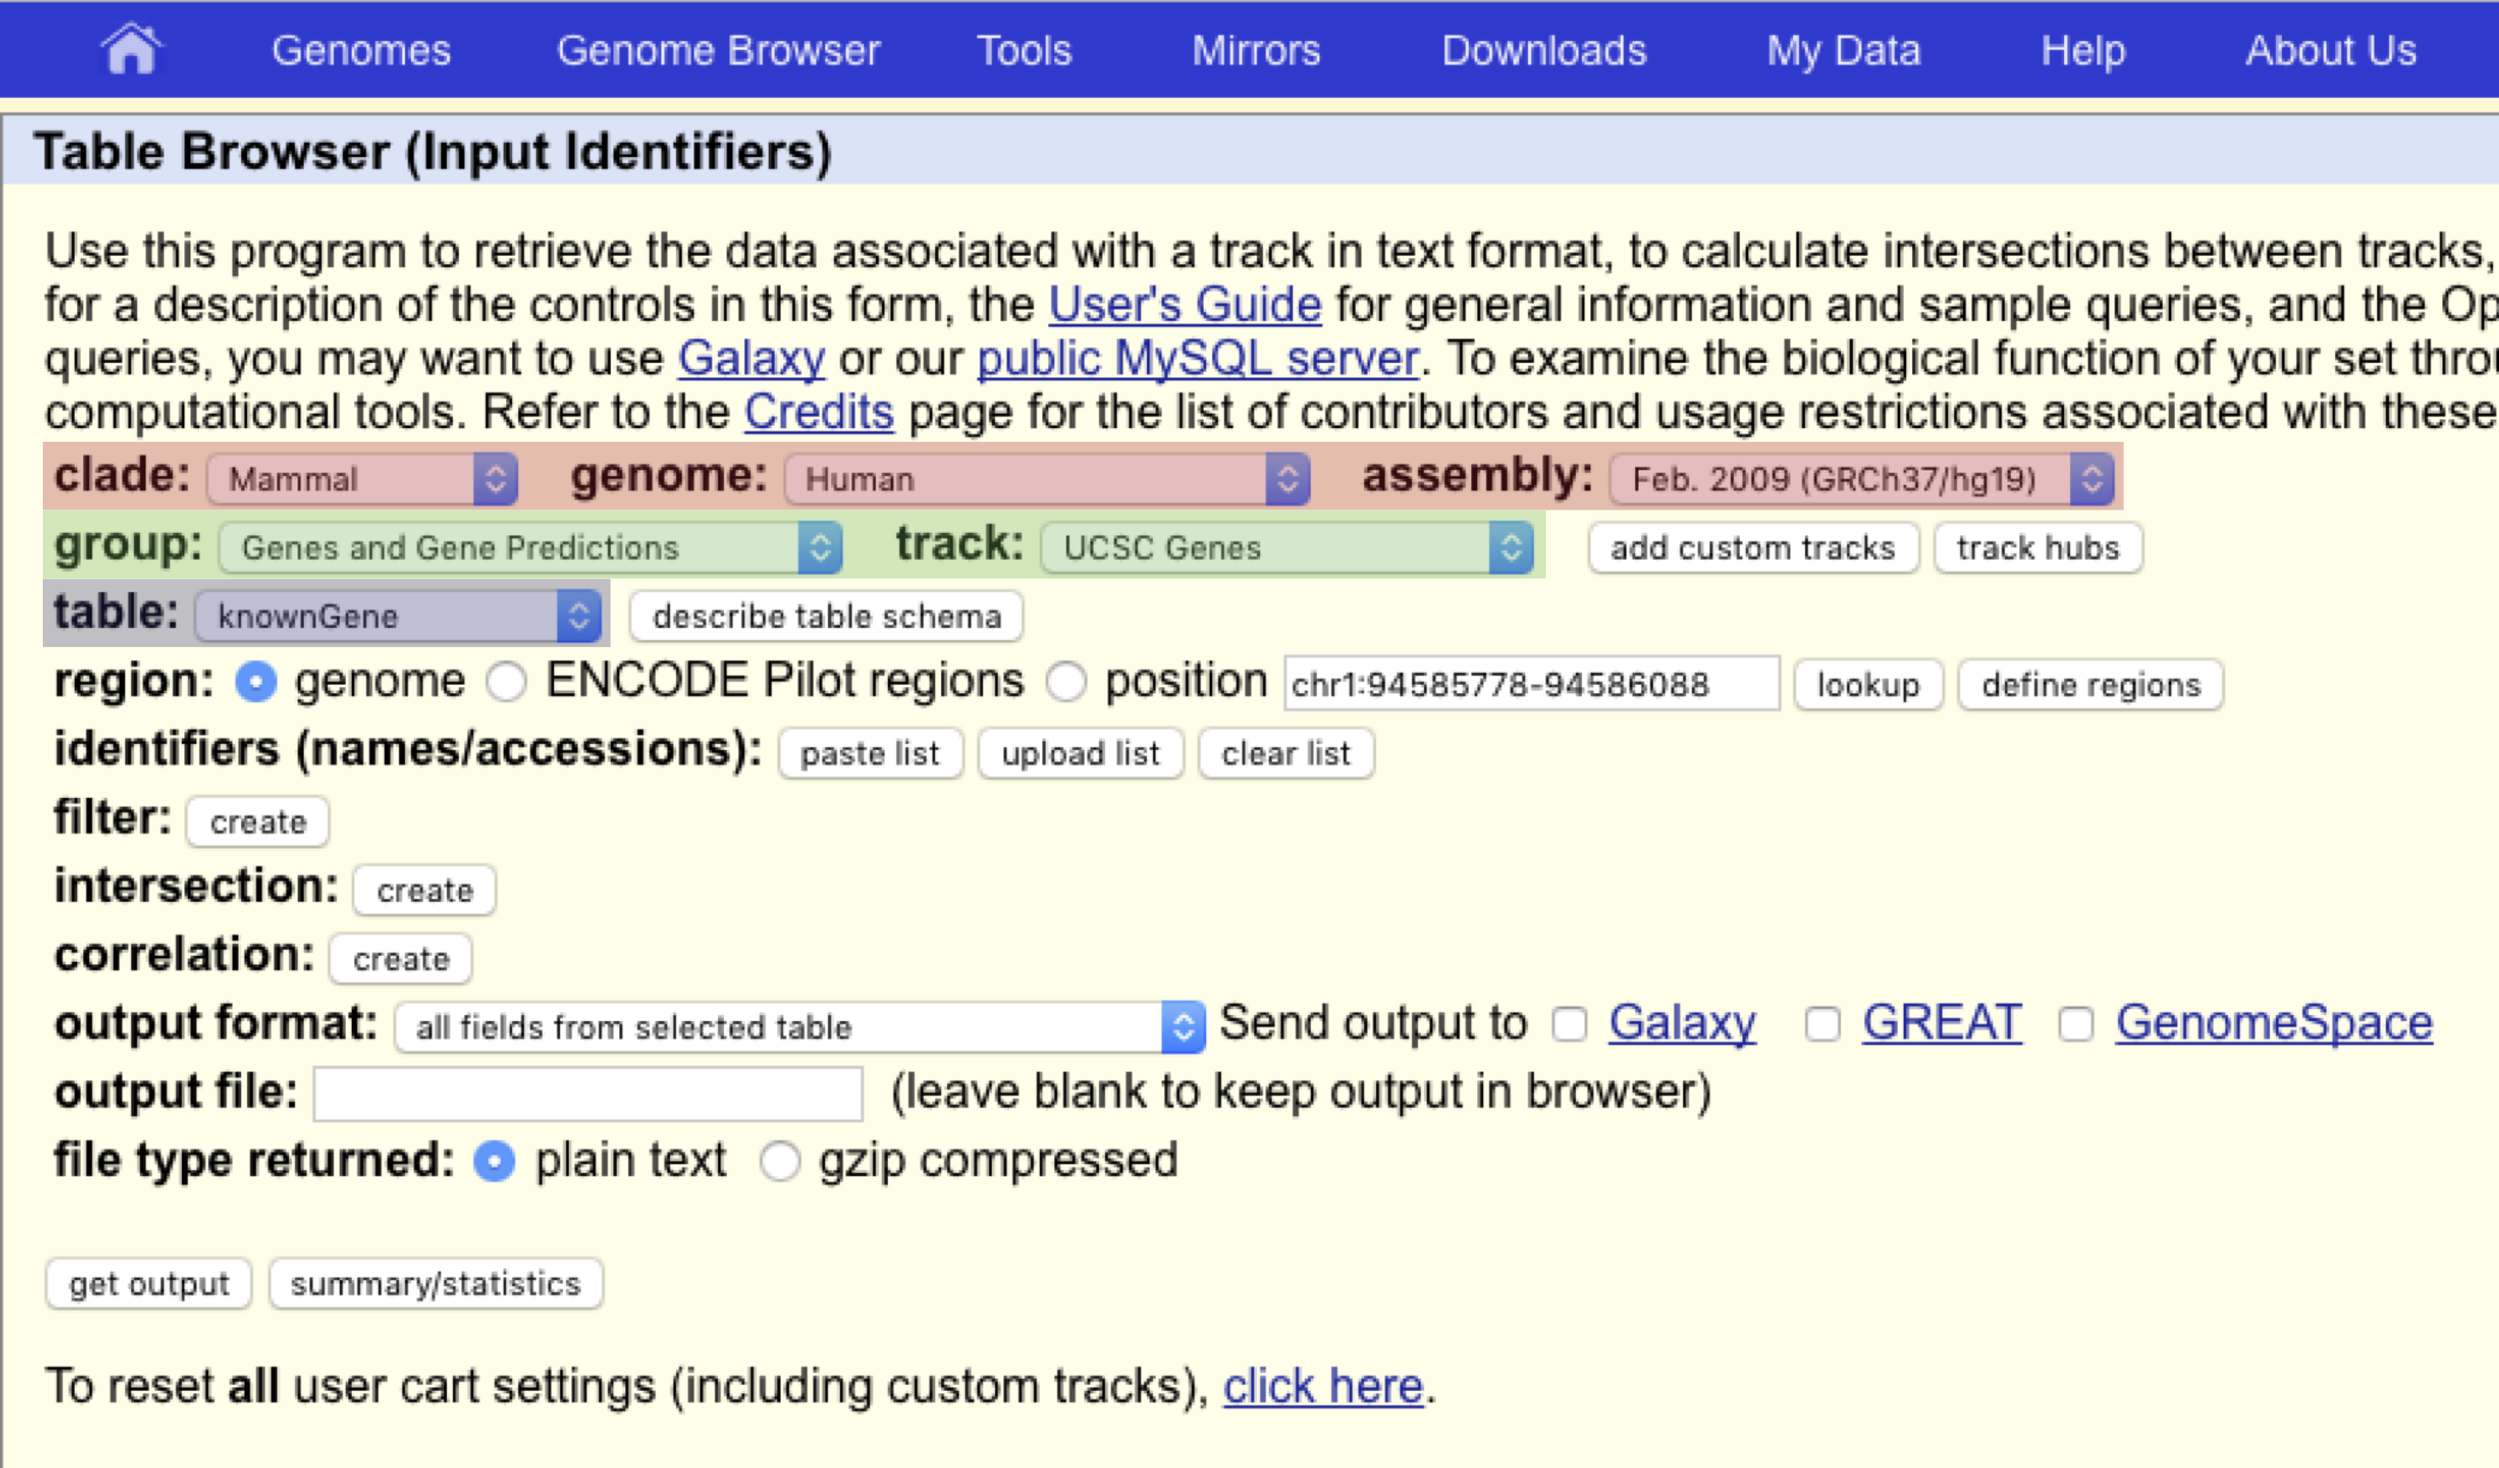
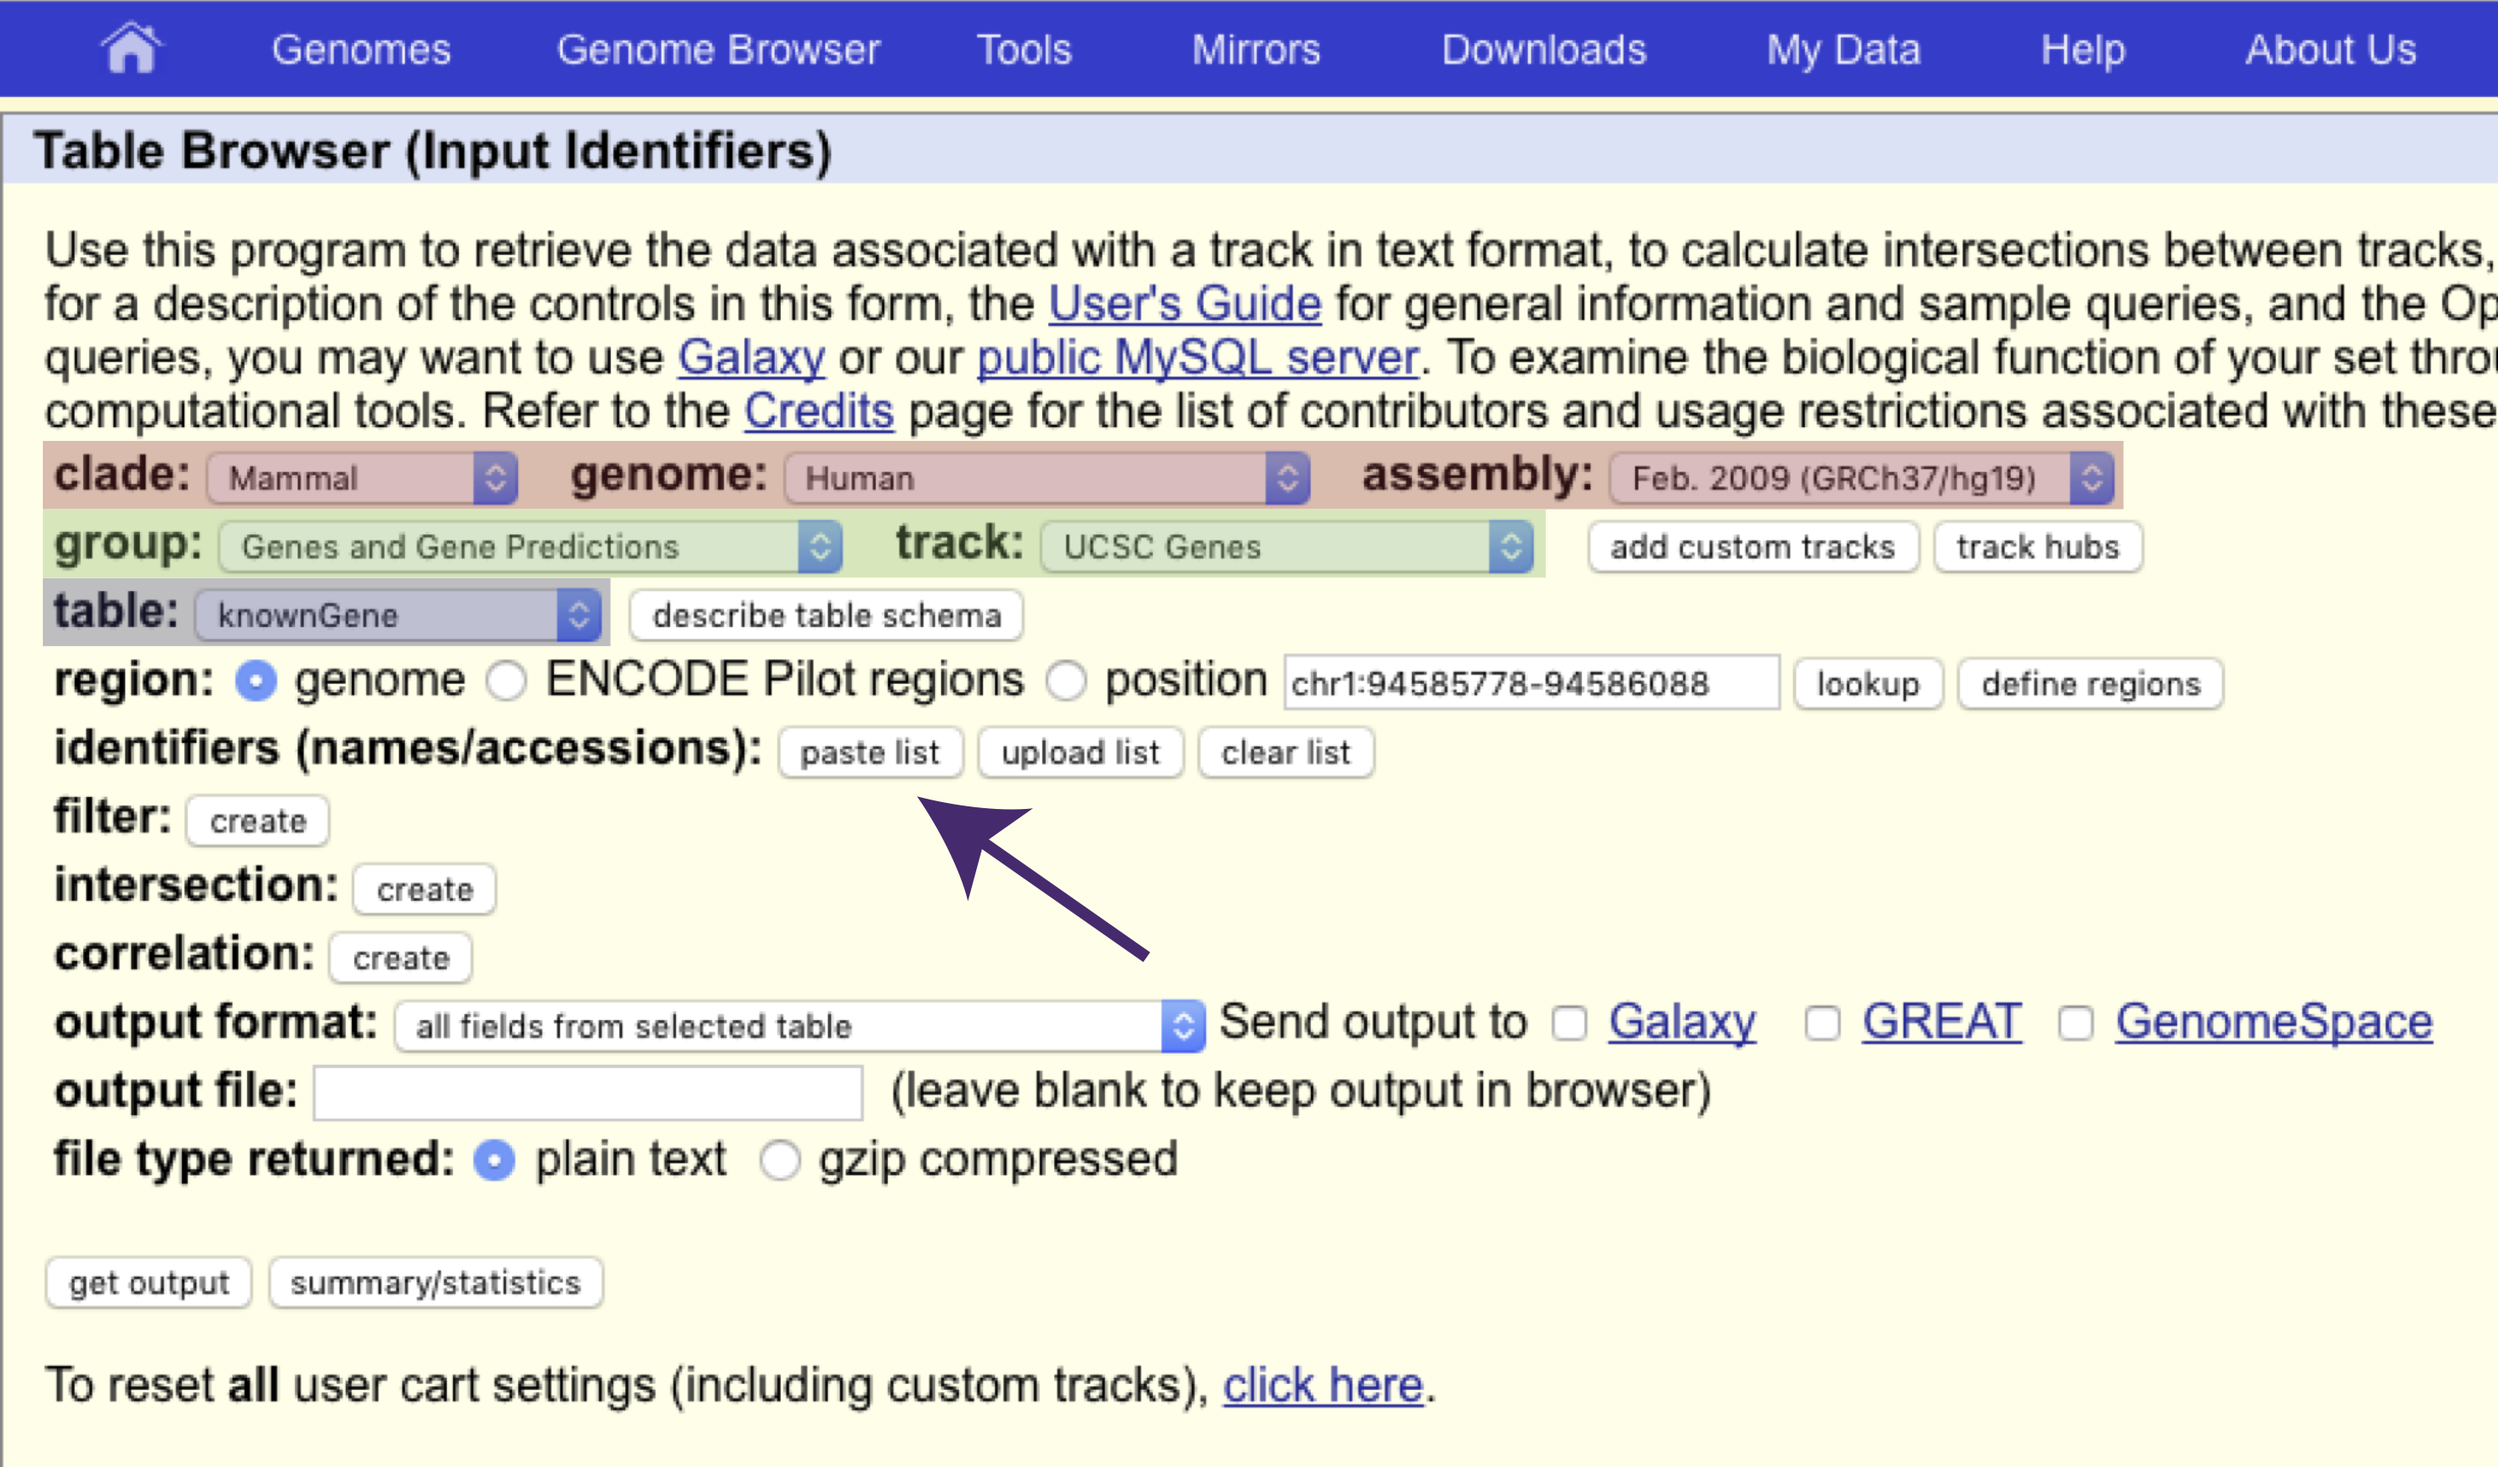
fixed UCSC genome browser section

diff --git a/_posts/0001-04-01-GenomeBrowsingLab.md b/_posts/0001-04-01-GenomeBrowsingLab.md
@@ -38,7 +38,9 @@ As is exhibited below we can now see the full list of ensembl transcipts of PIK3
 
 {% include figure.html image="/assets/UCSC/ensemblTranscripts.png" width="1150" %}
 
-{% include question.html question="Turn on the GTEx track, which tissue has the highest expression of PIK3CA? hint: try clicking on the track in the genome browser once it's enabled" answer='Cells - EBV-transformed lymphocytes have the highest expression at 11.3 RPKM.'%}
+Turn on the GTEx track, which tissue has the highest expression of PIK3CA?
+{% include question.html question="Get a hint!" answer='Try clicking on the track in the genome browser once it\'s enabled'%}
+{% include question.html question="Answer" answer='Cells - EBV-transformed lymphocytes have the highest expression at 11.3 RPKM.'%}
 
 ### BLAST-like alignment tool
 
@@ -50,20 +52,27 @@ BLAT will search the genome and output a table of possible matches between the g
 
 {% include figure.html image="/assets/UCSC/blatResults.png" width="750" %}
 
-{% include question.html question="Which gene do these primers attempt to amplify?" answer='ABCA4'%}
+Which gene do these primers attempt to amplify?
+
+{% include question.html question="Answer" answer='ABCA4'%}
 
 ### UCSC Table Browser
-[BLAT](https://genome.ucsc.edu/cgi-bin/hgBlat?command=start) allowed us to get a region based on a sequence, but what if we want to do the reverse of that, to get a sequence based on a region. Fortunately the [UCSC genome browser](https://genome.ucsc.edu/cgi-bin/hgGateway) has a tool for that as well called the [UCSC Table Browser](https://genome.ucsc.edu/cgi-bin/hgTables). Let's get the DNA sequence for the gene APC using this tool. First navigate to the [UCSC Table Browser](https://genome.ucsc.edu/cgi-bin/hgTables) and input the gene APC. There are alot of options here but we only need to concern ourselves with a few. First make sure that the proper assembly is specified, in our case this should be hg19 (red boxes). Next because we want to return the sequence of the APC gene "Genes and Gene Precitions" should be selected under group, and let's go ahead and look for this gene in the "UCSC Genes" track (green boxes). Further the table should be set to "knownGene" (blue box).
+[BLAT](https://genome.ucsc.edu/cgi-bin/hgBlat?command=start) allowed us to get a region based on a sequence, but what if we want to do the reverse of that, to get a sequence based on a region. Fortunately the [UCSC genome browser](https://genome.ucsc.edu/cgi-bin/hgGateway) has a tool for that as well called the [UCSC Table Browser](https://genome.ucsc.edu/cgi-bin/hgTables). Let's get the DNA sequence for the gene *PRLR* using this tool. First navigate to the [UCSC Table Browser](https://genome.ucsc.edu/cgi-bin/hgTables), there are alot of options here but we only need to concern ourselves with a few. First make sure that the proper assembly is specified, in our case this should be hg19 (red boxes). Next because we want to return the sequence of the *PRLR* gene "Genes and Gene Precitions" should be selected under group, and let's go ahead and look for this gene in the "UCSC Genes" track (green boxes). Further the table should be set to "knownGene" (blue box).
 
 {% include figure.html image="/assets/UCSC/tableBrowserInput.png" width="750" %}
 
-Next go ahead and click on "paste list" under "identifiers (names/accessions)" and specify that **APC** is the gene we want the sequence for.
+Next go ahead and click on "paste list" under "identifiers (names/accessions)" (see arrow in the figure above) and specify that *PRLR* is the gene we want the sequence for.
 
-{% include figure.html image="/assets/UCSC/specifyAPC.png" width="450" %}
+{% include figure.html image="/assets/UCSC/specifyPRLR.png" width="550" %}
 
-From there change the "output format" to "sequence" and click on "get output". The table browser will ask what type of sequence we want for APC, let's go ahead and get the protein sequence.
+From there change the "output format" to "sequence" and click on "get output". The table browser will ask what type of sequence we want for *PRLR*, let's go ahead and get the protein sequence.
 
 {% include figure.html image="/assets/UCSC/specifyProteinSequence.png" width="450" %}
 
-{% include question.html question="How many transcript are there for APC in the UCSC known genes track, use the results from the table browser?" answer='5'%}
-{% include question.html question='Try using BLAT on the protein sequence for entry "uc010jbz.3", which ensembl transcript does this entry correspond to?' answer='note to authors, find a better example'%}
+How many transcript are there for *PRLR* in the UCSC known genes track? Use the results from the table browser.
+
+{% include question.html question="How many transcript are there for APC in the UCSC known genes track, use the results from the table browser?" answer='9'%}
+
+Try using BLAT on the protein sequence for entry "uc021xxl.1", which ensembl transcript does this entry correspond to?
+
+{% include question.html question='Answer' answer='ENST00000310101'%}
